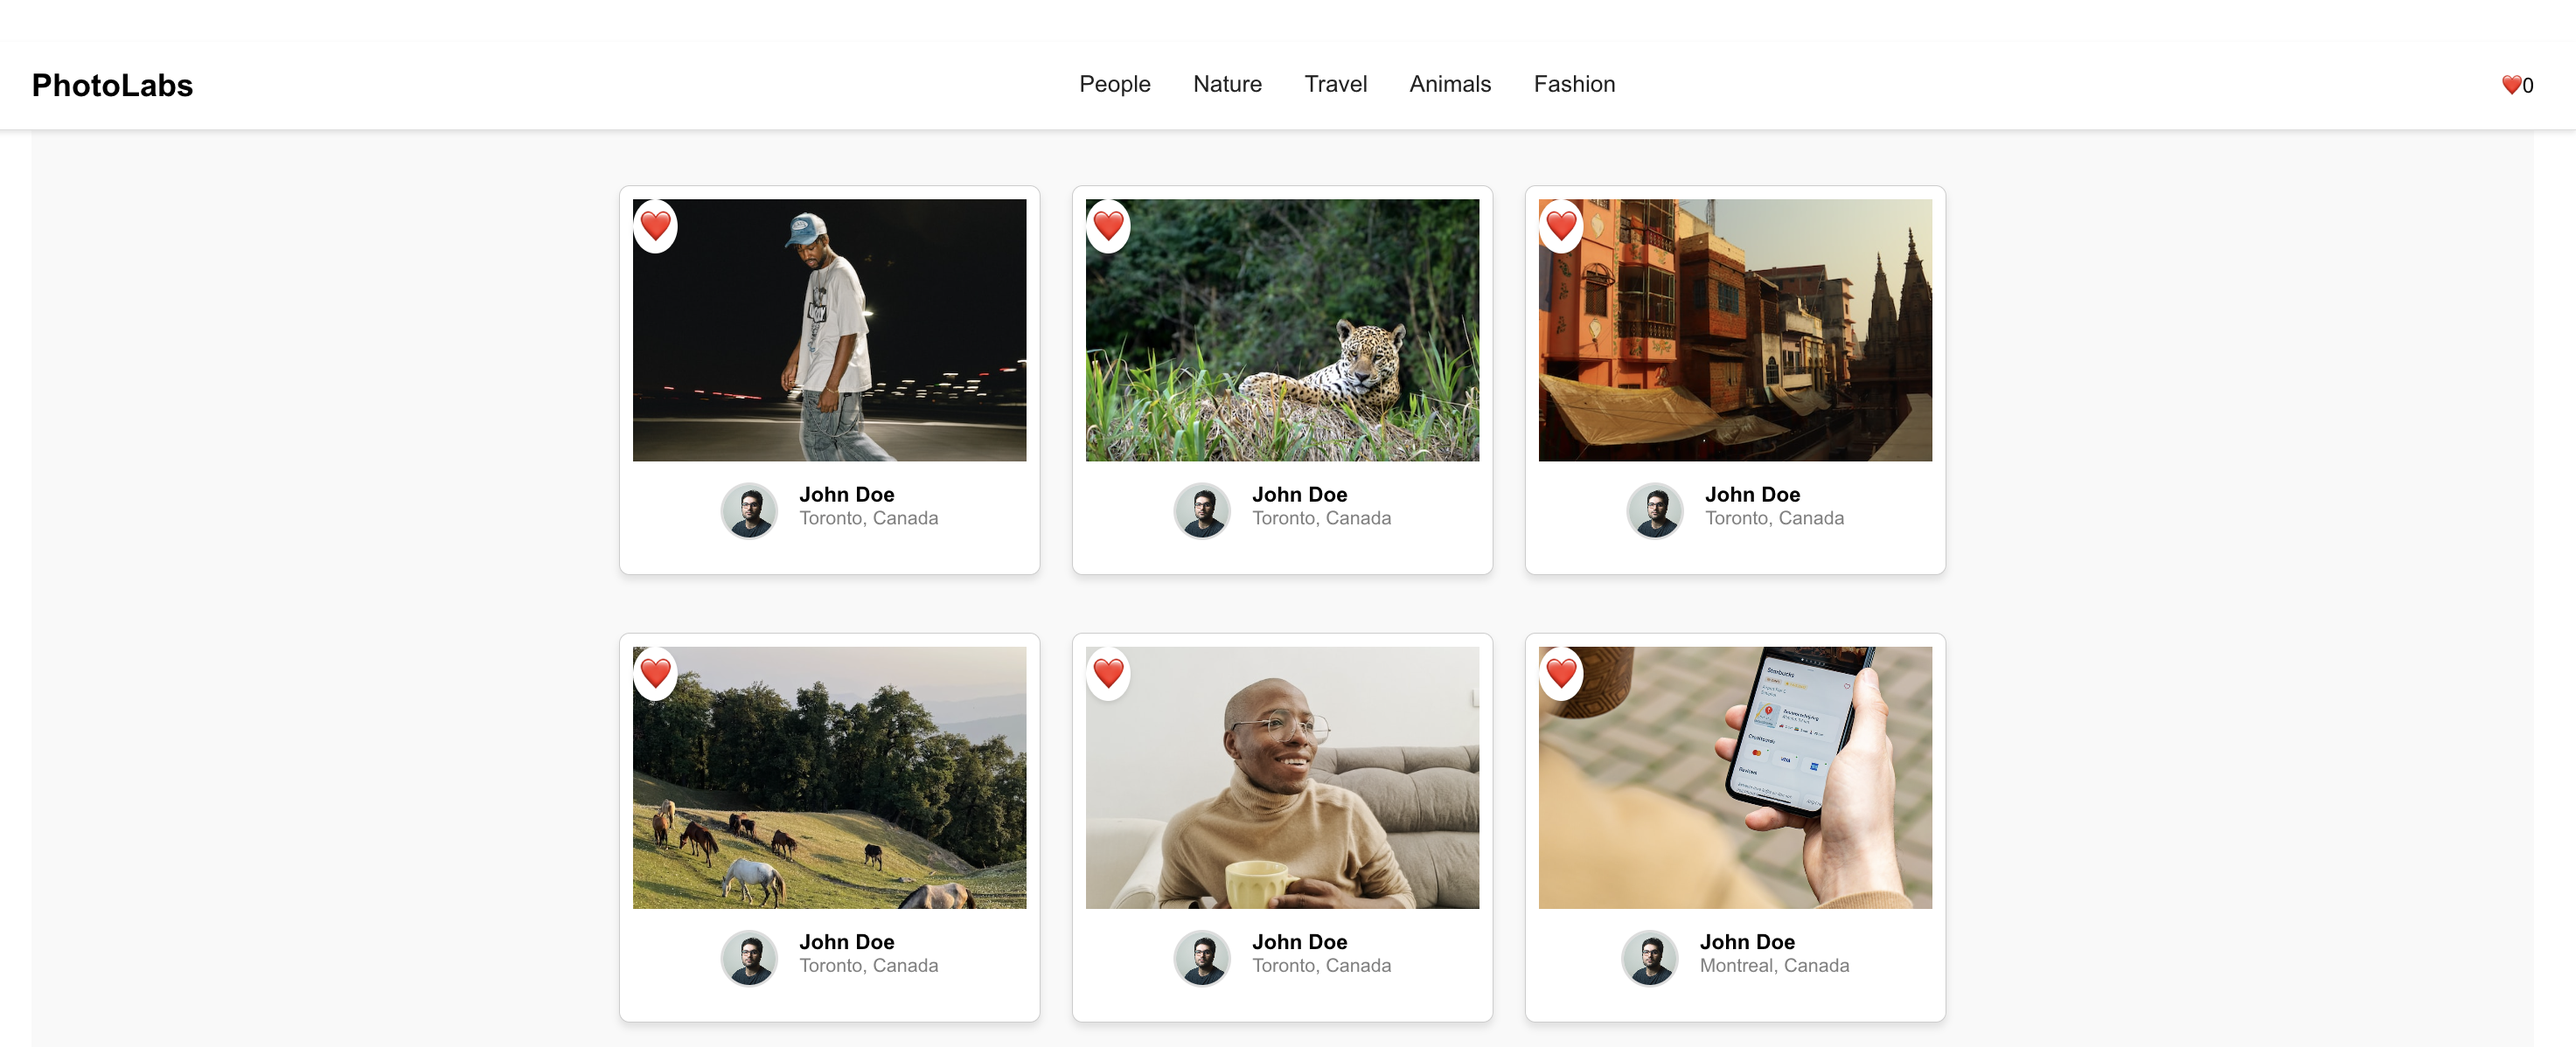
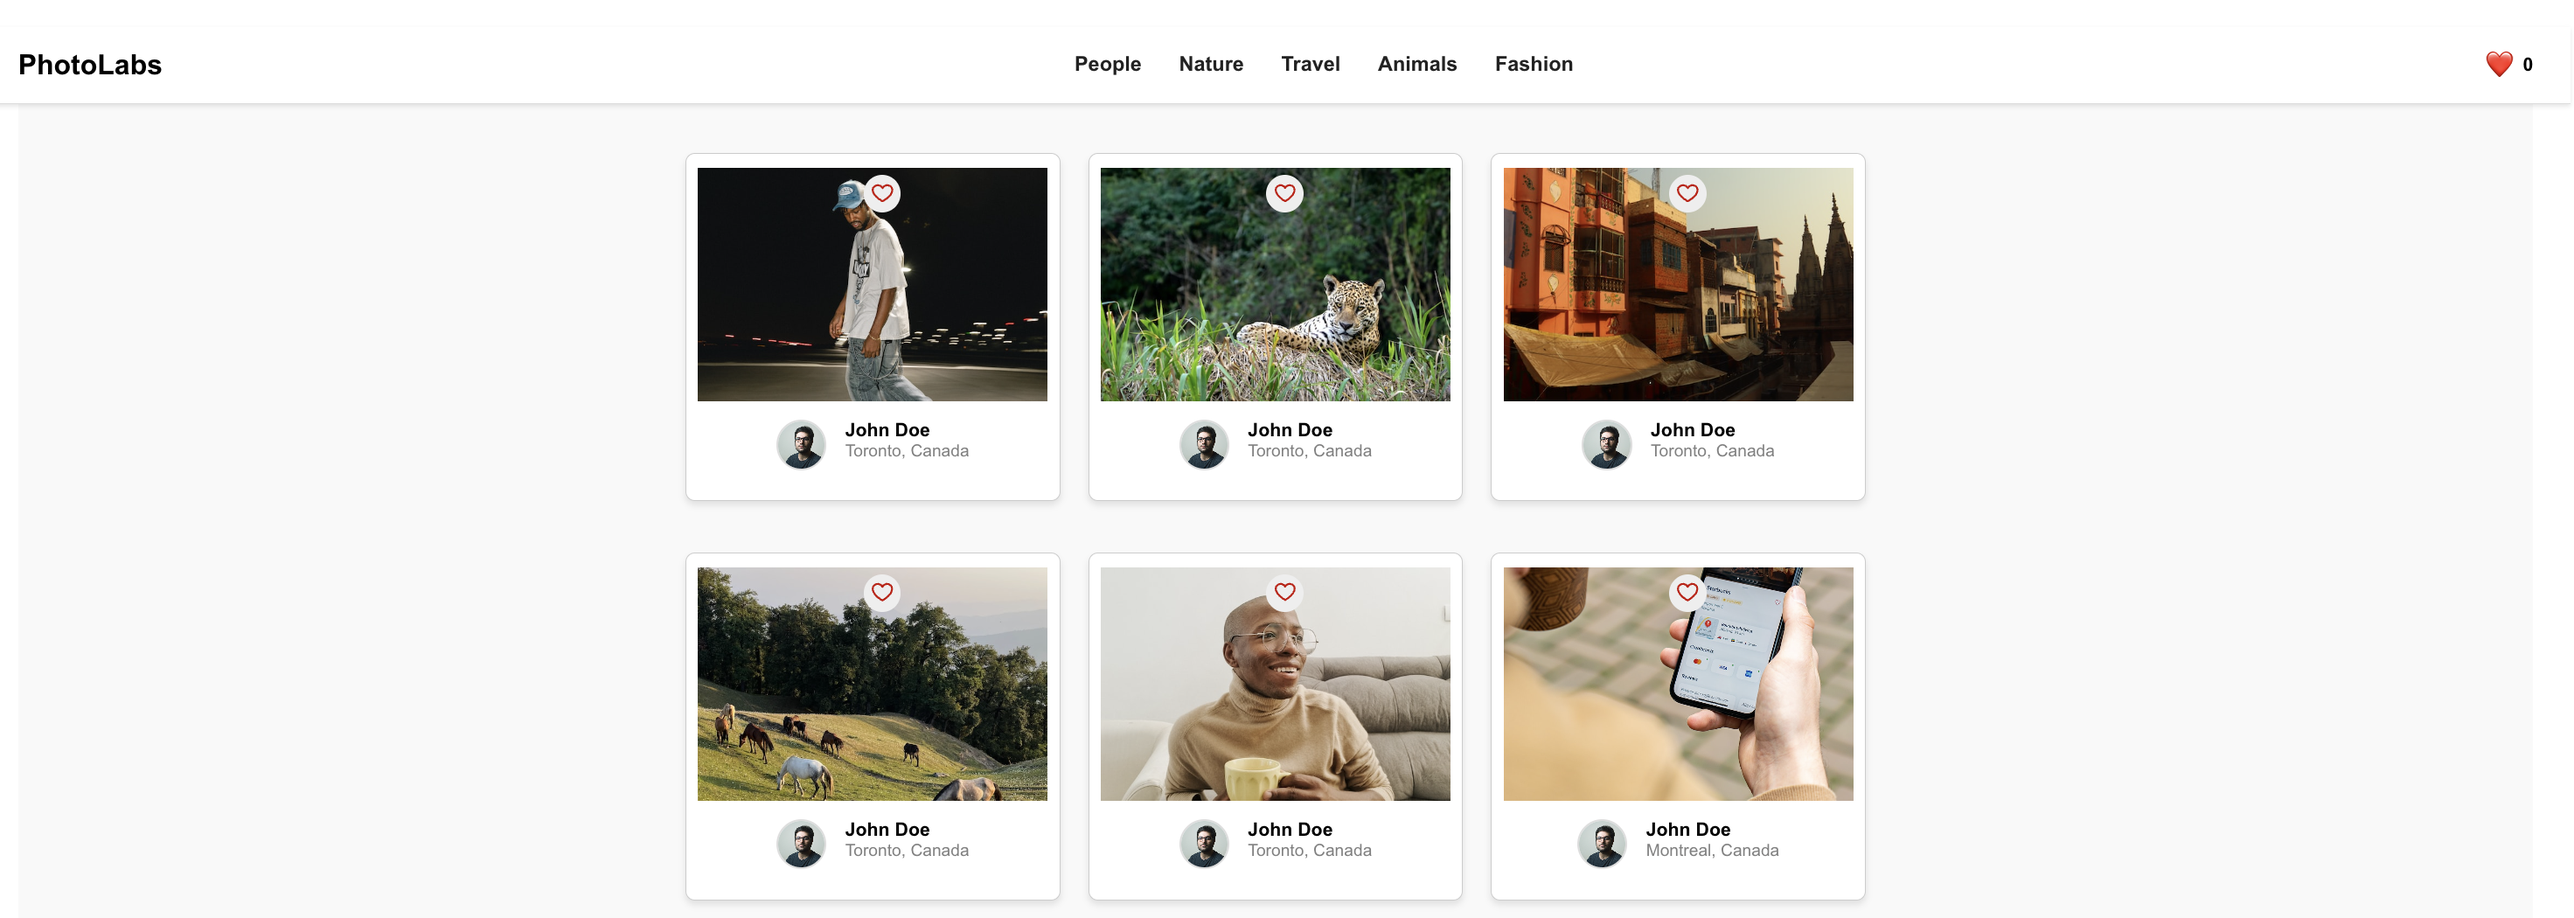
Complete PhotoLabs implementation with updated UI, favorites functionality, and documentation

diff --git a/frontend/src/components/PhotoDetailsModal.jsx b/frontend/src/components/PhotoDetailsModal.jsx
@@ -1,7 +1,12 @@
 import React from 'react';
+import PhotoFavButton from './PhotoFavButton';
+import { useFavorites } from '../context/FavoritesContext';
 import '../styles/PhotoDetailsModal.scss';
 
 const PhotoDetailsModal = ({ photo, onClose }) => {
+  const { favorites, toggleFavorite } = useFavorites();
+  const isFavorited = photo && favorites.includes(photo.id);
+
   if (!photo) return null;
 
   return (
@@ -17,6 +22,14 @@ const PhotoDetailsModal = ({ photo, onClose }) => {
           &times;
         </button>
         <div className="photo-details-modal__body">
+          <div className="photo-details-modal__top-bar">
+            <div className="photo-details-modal__favorite-button">
+              <PhotoFavButton
+                isLiked={isFavorited}
+                onClick={() => toggleFavorite(photo.id)}
+              />
+            </div>
+          </div>
           <img
             src={photo.urls.full}
             alt={`${photo.location.city}, ${photo.location.country}`}
@@ -35,7 +48,6 @@ const PhotoDetailsModal = ({ photo, onClose }) => {
               </div>
             </div>
           </div>
-          {/* Add similar photos here in the future */}
         </div>
       </div>
     </div>

diff --git a/frontend/src/components/PhotoListItem.jsx b/frontend/src/components/PhotoListItem.jsx
@@ -1,5 +1,6 @@
 import React from 'react';
 import { useFavorites } from '../context/FavoritesContext';
+import PhotoFavButton from './PhotoFavButton';
 
 const PhotoListItem = ({ photo, onPhotoClick }) => {
   const { favorites, toggleFavorite } = useFavorites();
@@ -7,14 +8,14 @@ const PhotoListItem = ({ photo, onPhotoClick }) => {
 
   return (
     <li className="photo-list-item" onClick={() => onPhotoClick(photo)}>
-      <div
-        className={`photo-list-item__heart ${isFavorited ? 'favorited' : ''}`}
-        onClick={e => {
-          e.stopPropagation();
-          toggleFavorite(photo.id);
-        }}
-      >
-        ❤
+      <div className="photo-list-item__favorite-button">
+        <PhotoFavButton 
+          isLiked={isFavorited} 
+          onClick={(e) => {
+            e.stopPropagation();
+            toggleFavorite(photo.id);
+          }} 
+        />
       </div>
       <img
         className="photo-list-item__image"

diff --git a/frontend/src/components/TopicList.jsx b/frontend/src/components/TopicList.jsx
@@ -1,29 +1,15 @@
-import React, { useState } from 'react';
+import React from 'react';
 import TopicListItem from './TopicListItem';
 import '../styles/TopicList.scss';
 
-const topics = [
-  { id: "1", name: "Nature" },
-  { id: "2", name: "Cities" },
-  { id: "3", name: "People" },
-];
-
-const TopicList = ({ onTopicSelect }) => {
-  const [selectedTopic, setSelectedTopic] = useState(null);
-
-  const handleTopicClick = (topic) => {
-    setSelectedTopic(topic.id);
-    onTopicSelect(topic.name);
-  };
-
+const TopicList = ({ topics, onTopicClick }) => {
   return (
-    <ul className="topic-list">
+    <ul className="top-nav-bar__topic-list">
       {topics.map((topic) => (
         <TopicListItem
           key={topic.id}
           topic={topic}
-          isSelected={selectedTopic === topic.id}
-          onClick={() => handleTopicClick(topic)}
+          onClick={() => onTopicClick(topic.id)}
         />
       ))}
     </ul>

diff --git a/frontend/src/components/TopNavigationBar.jsx b/frontend/src/components/TopNavigationBar.jsx
@@ -1,25 +1,14 @@
 import React from 'react';
+import TopicList from './TopicList';
+import FavBadge from './FavBadge';
 import '../styles/TopNavigationBar.scss';
 
 const TopNavigationBar = ({ topics, favorites, onTopicClick }) => (
   <nav className="top-nav-bar">
     <div className="top-nav-bar__logo">PhotoLabs</div>
-    <ul className="top-nav-bar__topic-list">
-      {topics.map(topic => (
-        <li
-          key={topic.id}
-          className="topic-list-item"
-          onClick={() => onTopicClick(topic.id)}
-        >
-          {topic.title}
-        </li>
-      ))}
-    </ul>
+    <TopicList topics={topics} onTopicClick={onTopicClick} />
     <div className="top-nav-bar__favorites">
-      <span className="top-nav-bar__heart">
-        ❤
-        <span className="top-nav-bar__counter">{favorites.length}</span>
-      </span>
+      <FavBadge favorites={favorites} />
     </div>
   </nav>
 );

diff --git a/frontend/src/components/PhotoFavButton.jsx b/frontend/src/components/PhotoFavButton.jsx
@@ -1,14 +1,14 @@
 import React from 'react';
+import FavIcon from './FavIcon';
 import '../styles/PhotoFavButton.scss';
 
 const PhotoFavButton = ({ isLiked, onClick }) => {
   return (
-    <button
-      className={`photo-fav-button ${isLiked ? 'photo-fav-button--active' : ''}`}
-      onClick={onClick}
-    >
-      {isLiked ? '❤' : '🤍'}
-    </button>
+    <div className="photo-list__fav-icon" onClick={onClick}>
+      <div className="photo-list__fav-icon-svg">
+        <FavIcon selected={isLiked} />
+      </div>
+    </div>
   );
 };
 

diff --git a/frontend/src/App.jsx b/frontend/src/App.jsx
@@ -1,6 +1,6 @@
 import React from 'react';
 import { FavoritesProvider } from './context/FavoritesContext';
-import HomeRoute from './components/HomeRoute';
+import HomeRoute from './components/HomeRoute'; 
 import PhotoDetailsModal from './components/PhotoDetailsModal';
 import useApplicationData from './hooks/useApplicationData';
 import './styles/App.scss';

diff --git a/frontend/src/components/TopicListItem.jsx b/frontend/src/components/TopicListItem.jsx
@@ -1,11 +1,11 @@
 import React from 'react';
 
-const TopicListItem = ({ topic, isSelected, onClick }) => (
+const TopicListItem = ({ topic, onClick }) => (
   <li
-    className={`topic-list-item ${isSelected ? 'selected' : ''}`}
+    className="topic-list-item"
     onClick={onClick}
   >
-    {topic.name}
+    {topic.title}
   </li>
 );
 

diff --git a/README.md b/README.md
@@ -6,21 +6,23 @@ PhotoLabs is a React-based single-page application (SPA) that allows users to vi
 
 ## Features
 
-- View photos on the homepage.
-- Explore photos by categories (topics).
-- View a larger version of a photo and similar photos.
-- Like photos and track liked photos with a heart icon in the navigation bar.
-- Backend API for managing photos and topics.
-- Database reset functionality for development and testing.
+- Browse and view high-quality photos from various photographers.
+- Filter photos by categories (People, Nature, Travel, Animals, Fashion).
+- View detailed photo information in a modal overlay.
+- Like/unlike photos with visual heart icon feedback
+- Track liked photos with a counter in the navigation bar
+- Responsive design for various screen sizes
+- Real-time API integration for fresh content
 
 ---
 
 ## Tech Stack
 
 ### Frontend
-- **React**: For building the user interface.
-- **React Router**: For navigation between pages.
-- **Axios**: For making API requests.
+- **React**: For building the user interface with functional components and hooks.
+- **Context API**: For global state management of favorites.
+- **Axios**: For making API requests to the backend.
+- **SCSS**: For component styling with BEM methodology.
 
 ### Backend
 - **Node.js**: For the server runtime.
@@ -30,35 +32,41 @@ PhotoLabs is a React-based single-page application (SPA) that allows users to vi
 
 ---
 
+## Project Structure
+
+# The project follows a component-based architecture:
+
+* /components: Reusable UI components (PhotoList, PhotoFavButton, TopicList, etc.)
+* /routes: Page-level components (HomeRoute)
+* /context: React Context providers (FavoritesContext)
+* /hooks: Custom React hooks (useApplicationData)
+* /styles: SCSS stylesheets
+* backend: API server and database
+
 ## Installation FrontEnd
 
-# PhotoLabs React Application
-
-## Setup
-
-Install dependencies with `npm install`.
+Setup
+Install dependencies with npm install.
 
 Note: This project requires at least Node v16
 
-## Run The Development Server
+Run The Development Server
 
 Start the server with
 
 ```sh
 npm run dev
 ```
+You can visit the running application at http://localhost:3000
 
-You can visit the running application at [http://localhost:3000](http://localhost:3000)
-
-## Run The Linter
+Run The Linter
 
 You can run eslint with the following command:
 
 ```sh
 npm run lint
 ```
-
-## Run The Jest Tests
+Run The Jest Tests
 
 The tests can be run with:
 
@@ -68,71 +76,90 @@ npm run test
 npm test
 ```
 
----
-## Installation BackEnd
+## Installation FrontEnd
 
-# Photolabs API
+Setup
+Install dependencies with npm install.
 
-## Setup
+Creating The DB
+Use the psql -U labber command to login to the PostgreSQL server with the username labber and the password labber.
 
-Install dependencies with `npm install`.
+Create a database with the command CREATE DATABASE photolabs_development;.
 
-## Creating The DB
+Copy the .env.example file to .env.development and fill in the necessary PostgreSQL configuration. The node-postgres library uses these environment variables by default.
 
-Use the `psql -U labber` command to login to the PostgreSQL server with the username `labber` and the password `labber`.
-
-Create a database with the command `CREATE DATABASE photolabs_development;`.
-
-Copy the `.env.example` file to `.env.development` and fill in the necessary PostgreSQL configuration. The `node-postgres` library uses these environment variables by default.
-
-```
+```sh
 PGHOST=localhost
 PGUSER=labber
 PGDATABASE=photolabs_development
 PGPASSWORD=labber
 PGPORT=5432
 ```
-
-## Seeding
-
-Run the development server with `npm start`.
+Seeding
+Run the development server with npm start.
 
 Both of these achieve the same result.
 
-- Make a `GET` request to `/api/debug/reset` with `curl http://localhost:8001/api/debug/reset`.
-- Use the browser to navigate to [http://localhost:8001/api/debug/reset](http://localhost:8001/api/debug/reset).
-
-## Run The Server
-
+Make a GET request to /api/debug/reset with curl http://localhost:8001/api/debug/reset.
+Use the browser to navigate to http://localhost:8001/api/debug/reset.
+Run The Server
 Running the server normally
+
 ```sh
 npm start
 ```
 
 Running the server so it returns an error when saving/deleting for testing the client's error handling capabilities
+
 ```sh
 npm run error
 ```
+
+## Running Both Servers
+
+To run the complete application, you'll need to start both the frontend and backend servers:
+
+* Terminal 1: Start the backend server
+
+```sh
+cd backend
+npm start
+```
+* Terminal 2: Start the frontend development server
+
+```sh
+cd frontend
+npm run dev
+```
+* Visit http://localhost:3000 in your browser
 
 ## Screenshots
 
 ![Homepage](/frontend/docs/homepage.png)
 ![Photo Modal](/frontend/docs/single-photo.png)
 
-## Endpoints
+## API Endpoints
 
-### Retrieve all photos
+Retrieve all photos
 
-[/api/photos](http://localhost:8001/api/photos)
+/api/photos
 
-### Retrieve all topics
+Retrieve all topics
 
-[/api/topics](http://localhost:8001/api/topics)
+/api/topics
 
-### Retrieve photos for a specific topic
+Retrieve photos for a specific topic
 
-[/api/topics/:id/photos](http://localhost:8001/api/topics/:id/photos)
+/api/topics/:id/photos
 
-### Reset the database
+Reset the database
 
-[/api/debug/reset](http://localhost:8001/api/debug/reset)
+/api/debug/reset
+
+## Recent Updates
+
+* Reorganized project structure with proper component separation
+* Implemented photo filtering by topics
+* Added favorites functionality with visual feedback
+* Connected to backend API for dynamic content
+* Fixed UI/UX issues for better user experience
